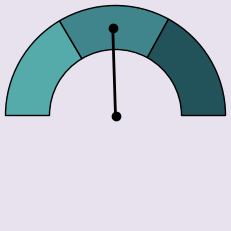
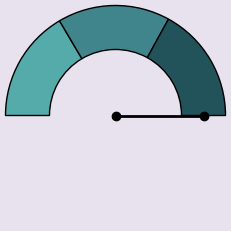
fix: reformat in pdf

Changed region(s): [[0.4545, 0.0909, 0.5152, 0.4848], [0.5152, 0.4848, 0.9091, 0.5455]]

diff --git a/generatePDF.py b/generatePDF.py
@@ -138,12 +138,14 @@ def create_pdf(file_name, student_id):
         if title == "Repeated mistakes":
             errors = data
             y_offset = rect_y + rect_height - 40
-            for phrase, error in errors[:5]:
-                c.setFont("Helvetica", 12)
-                c.drawString(60, y_offset, f"{phrase} → {error}")
-                y_offset -= 20
-            if len(errors) > 5:
-                c.drawString(60, y_offset, "More errors in the full report.")
+            for phrase, error, in errors[:2]:
+                for line in error.split('\n'):
+                    c.setFont("Helvetica", 12)
+                    c.drawString(60, y_offset, line.strip())
+                    y_offset -= 20
+                    
+            if len(errors) > 2:
+                c.drawString(60, y_offset - 10, "More errors will be available next time.")
         
         elif title == "Participation":
             participation = data
